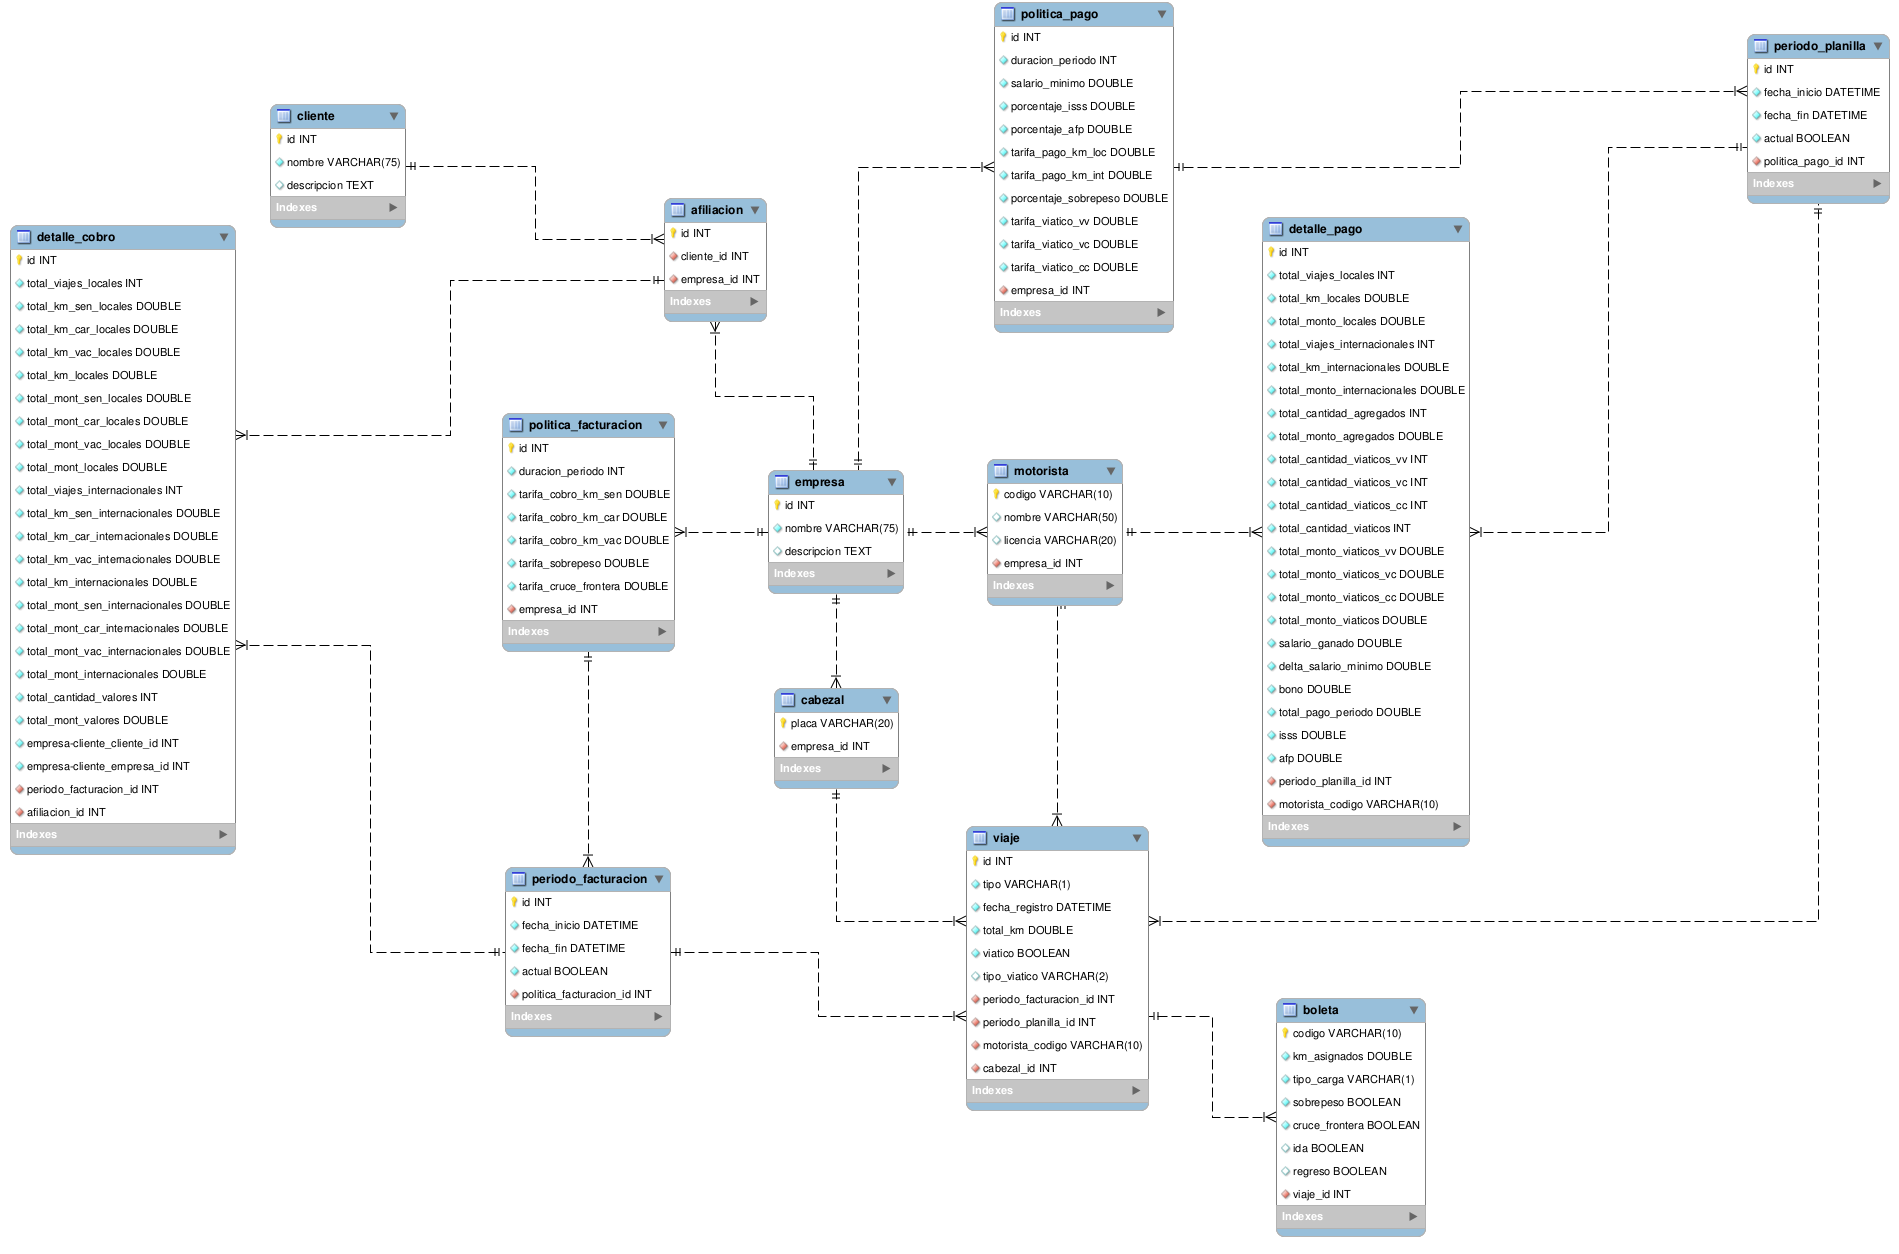
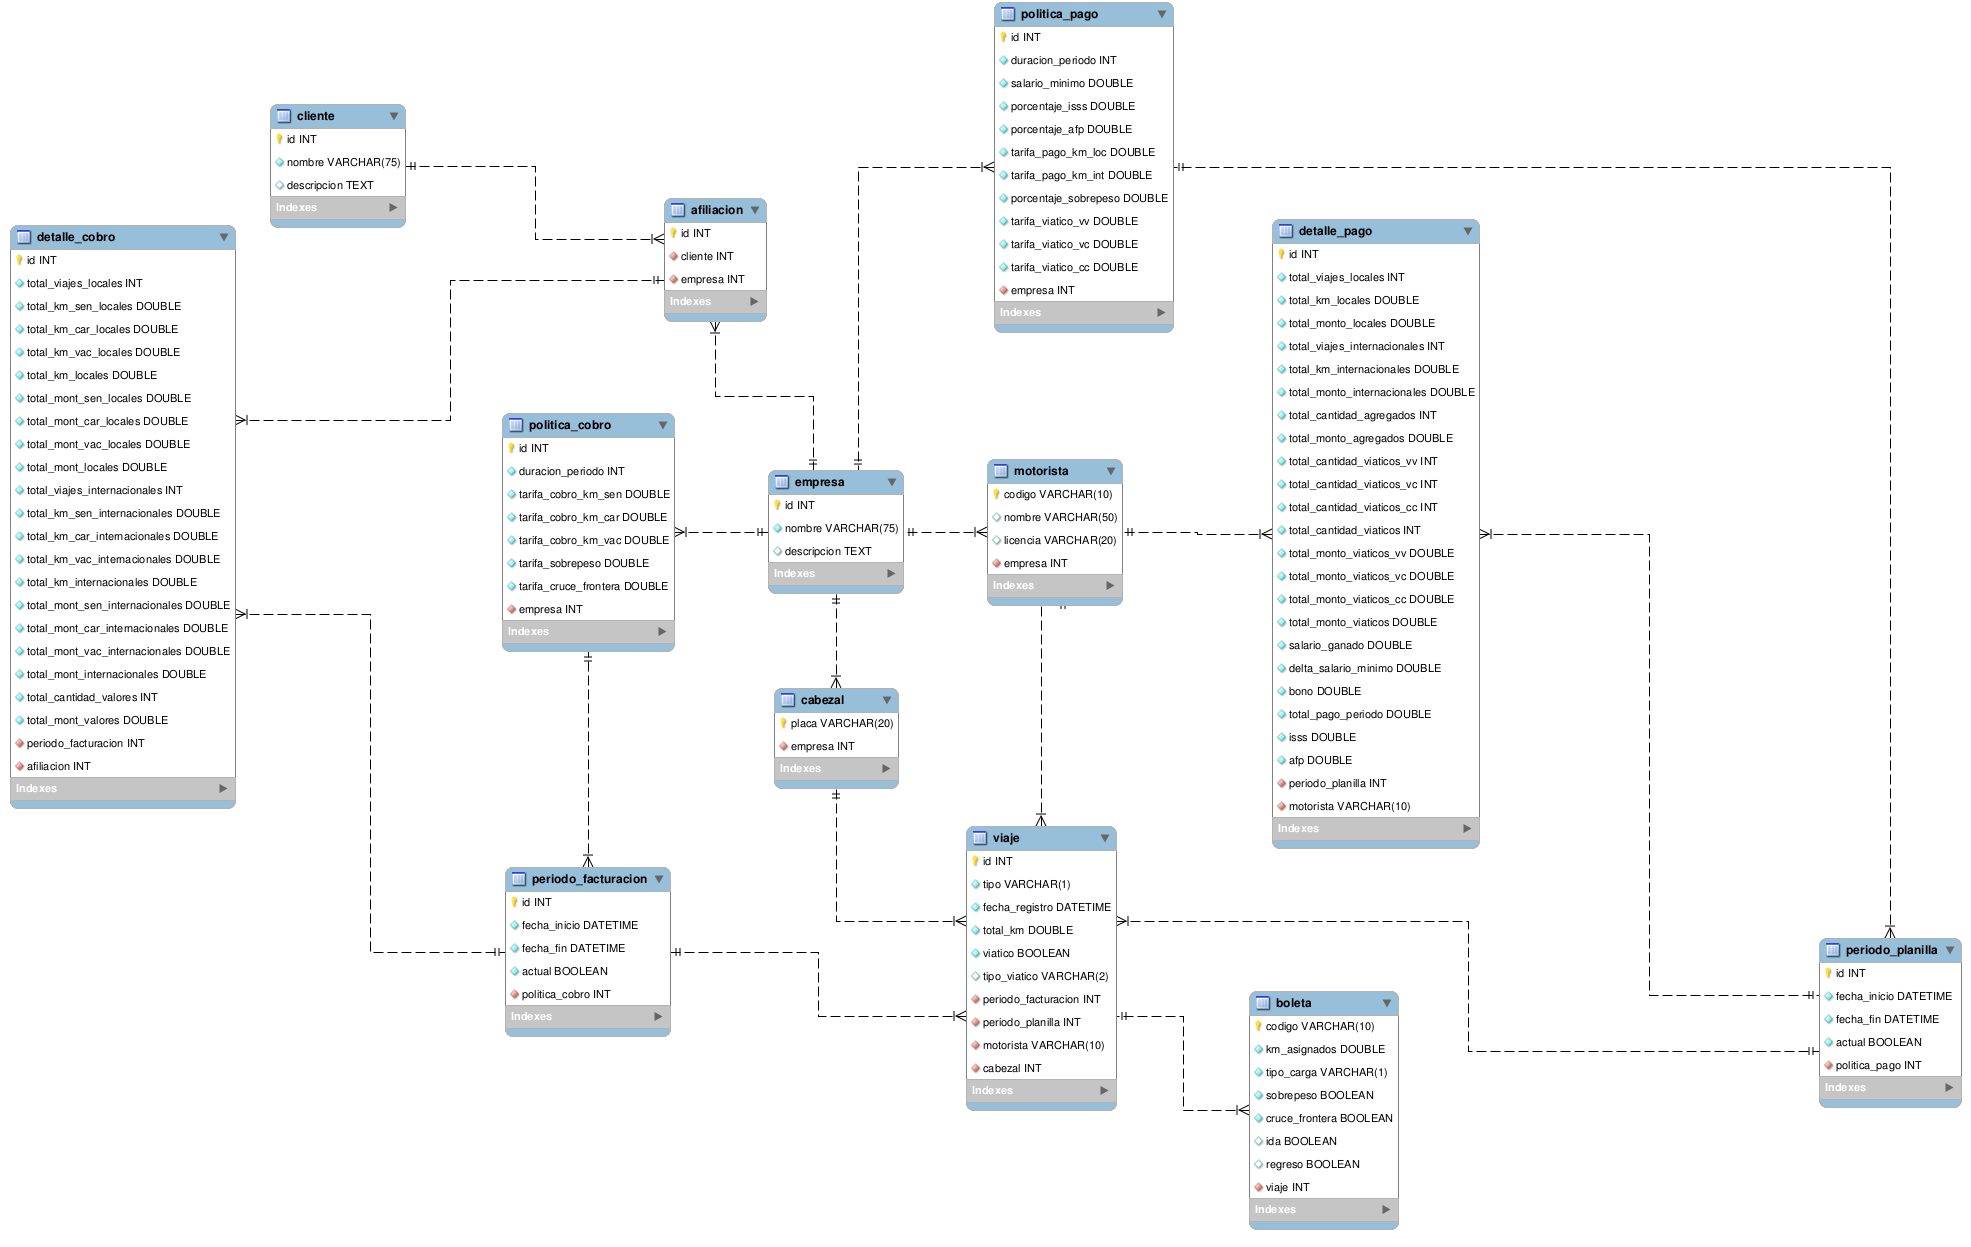
Modificacion esquema base datos

diff --git a/proyecto_siiaf/main/models.py b/proyecto_siiaf/main/models.py
@@ -2,11 +2,128 @@ from django.db import models
 
 # Create your models here.
 
-class Empresa(models.Model):
+class Cliente(models.Model):
 
-	nombre = models.CharField(max_length=75, unique=True, null=False,)
+	nombre = models.CharField(max_length=75, unique=True)
 
 	descripcion = models.TextField(null=True)
 
 	class Meta:
+		db_table = 'cliente'
+		
+
+class Empresa(models.Model):
+
+	nombre = models.CharField(max_length=75, unique=True)
+
+	descripcion = models.TextField(null=True)
+
+	clientes = models.ManyToManyField( Cliente, through='Afiliacion', through_fields=('empresa','cliente') )
+
+	class Meta:
+		#Forzar nombre de la tabla en la base de datos
 		db_table = 'empresa'
+
+
+class Afiliacion(models.Model):
+
+	empresa = models.ForeignKey(Empresa, on_delete=models.CASCADE)
+
+	cliente = models.ForeignKey(Cliente, on_delete=models.CASCADE)
+
+	class Meta:
+		db_table = 'afiliacion'
+
+
+class Motorista(models.Model):
+
+	codigo = models.CharField(max_length=10, primary_key=True)
+
+	nombre = models.CharField(max_length=50)
+
+	licencia = models.CharField(max_length=20, unique=True)
+
+	empresa = models.ForeignKey(Empresa, on_delete=models.CASCADE)
+
+	class Meta:
+		db_table = 'motorista'
+
+
+class Cabezal(models.Model):
+
+	placa = models.CharField(max_length=20)
+
+	empresa = models.ForeignKey(Empresa, on_delete=models.CASCADE)
+
+	class Meta:
+		db_table = 'cabezal'
+
+
+class PoliticaCobro(models.Model):
+
+	duracion_periodo = models.IntegerField()
+
+	tarifa_cobro_km_sen = models.FloatField()
+
+	tarifa_cobro_km_car = models.FloatField()
+
+	tarifa_cobro_km_vac = models.FloatField()
+
+	tarifa_sobrepeso = models.FloatField()
+
+	tarifa_cruce_frontera = models.FloatField()
+
+	empresa = models.ForeignKey(Empresa, on_delete=models.CASCADE)
+
+	class Meta:
+		db_table = 'politica_cobro'
+
+
+class PoliticaPago(models.Model):
+
+	duracion_periodo = models.IntegerField()
+
+	salario_minimo = models.FloatField()
+
+	porcentaje_isss = models.FloatField()
+
+	porcentaje_afp = models.FloatField()
+
+	tarifa_pago_km_loc = models.FloatField()
+
+	tarifa_pago_km_int = models.FloatField()
+
+	porcentaje_sobrepeso = models.FloatField()
+
+	tarifa_viatico_vv = models.FloatField()
+
+	tarifa_viatico_vc = models.FloatField()
+
+	tarifa_viatico_cc = models.FloatField()
+
+	empresa = models.ForeignKey(Empresa, on_delete=models.CASCADE)
+
+	class Meta:
+		db_table = 'politica_pago'
+
+
+class PeriodoFacturacion(models.Model):
+
+	inicio = models.DateTimeField()
+
+	fin = models.DateTimeField()
+	
+	actual = models.BooleanField()
+	
+	politica_cobro = models.ForeignKey(PoliticaCobro)
+
+
+class PeriodoPlanilla(models.Model):
+
+	inicio = models.DateTimeField()
+
+	fin = models.DateTimeField()
+
+	actual = models.DateTimeField()
+
+	politica_pago = models.ForeignKey(PoliticaPago)

diff --git a/proyecto_siiaf/main/urls.py b/proyecto_siiaf/main/urls.py
@@ -12,13 +12,19 @@ urlpatterns = [
 	
 	#expresion: /main/registro_clientes
 	url(r'^registro_clientes/$',views.registrar_cliente, name = 'registrar_cliente'),
+
+	#expresion: /main/registro_motoristas/
+	url(r'^registro_motoristas$',views.registrar_motorista, name = 'registrar_motorista'),
+
+	#expresion: /main/registro_cabezales/
+	url(r'^registro_cabezales$',views.registrar_motorista, name = 'registrar_cabezal'),
 	
 	#expresion: /main/registro_viajes
 	url(r'^registro_viajes/$',views.registrar_viaje, name = 'registrar_viaje'),
 	
 	#expresion: /main/politicas_pago/
-	url(r'^politicas_pago/$',views.configurar_politica_pago, name = 'configurar_ppago'),
+	url(r'^politicas_pago/$',views.configurar_politica_pago, name = 'configurar_politica_pago'),
 	
 	#expresion: /main/politicas_cobro/
-	url(r'^politicas_cobro/$',views.configurar_politica_cobro, name = 'configurar_pcobro'),
+	url(r'^politicas_cobro/$',views.configurar_politica_cobro, name = 'configurar_politica_cobro'),
 ]

diff --git a/proyecto_siiaf/main/views.py b/proyecto_siiaf/main/views.py
@@ -11,6 +11,12 @@ def registrar_empresa(request):
 def registrar_cliente(request):
 	pass
 
+def registrar_motorista(request):
+	pass
+
+def registrar_cabezal(request):
+	pass
+
 def registrar_viaje(request):
 	pass
 
@@ -19,3 +25,4 @@ def configurar_politica_pago(request):
 
 def configurar_politica_cobro(request):
 	pass
+
